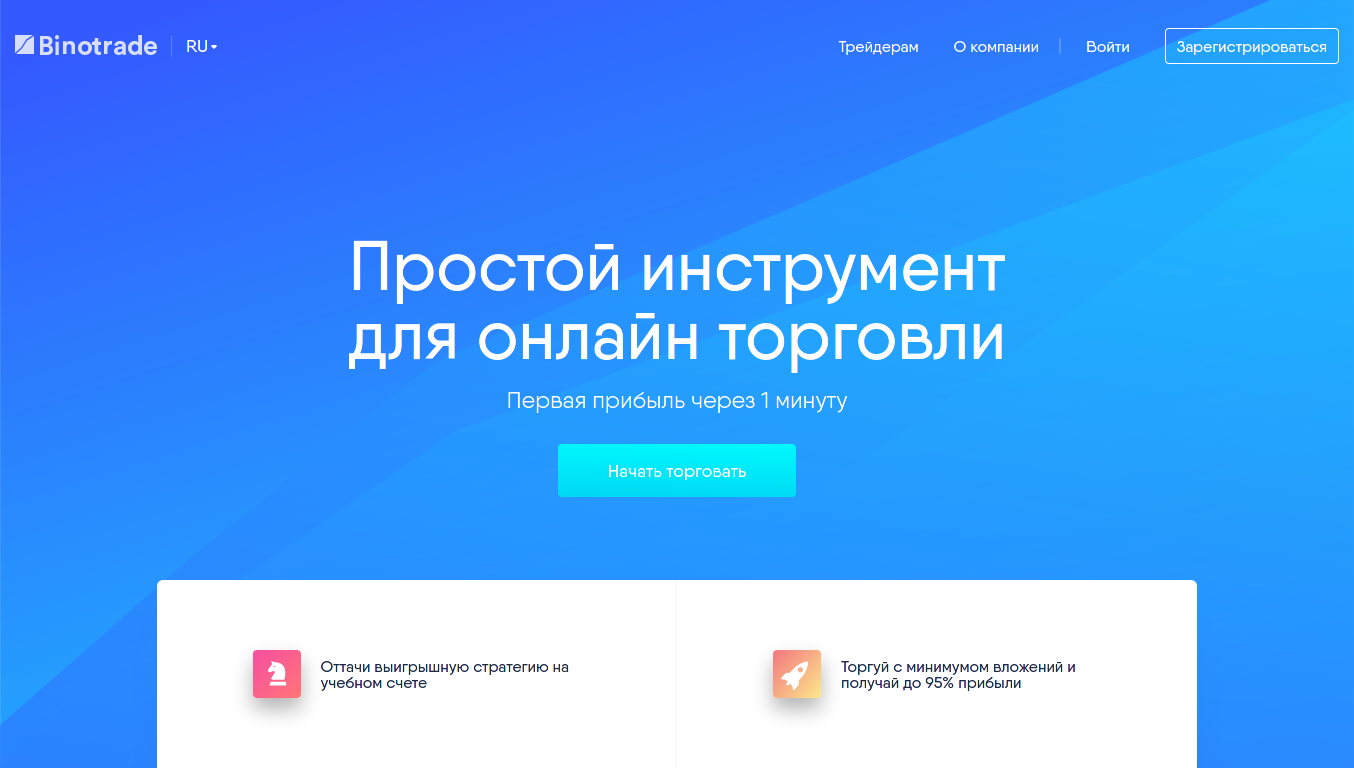
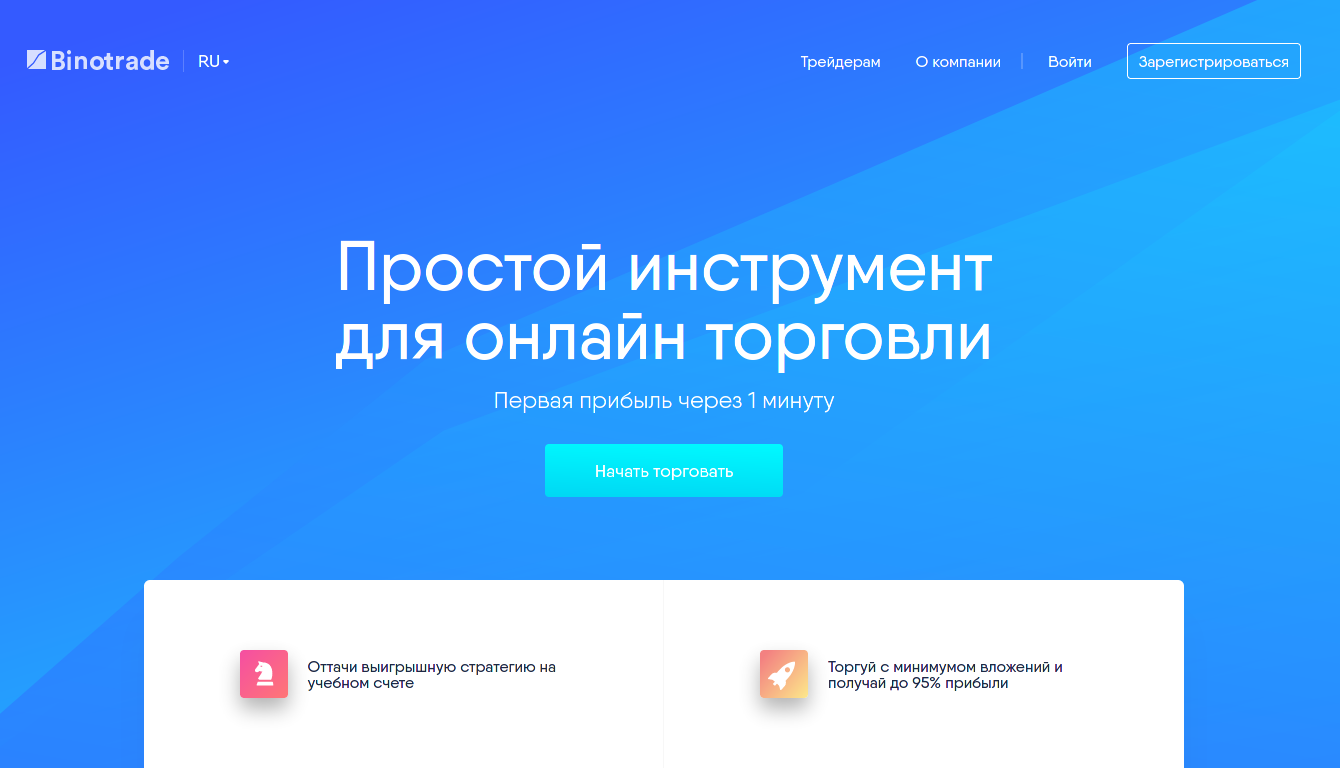
New image of the safari browser window + update project images

diff --git a/src/scss/blocks/projects.scss b/src/scss/blocks/projects.scss
@@ -57,7 +57,7 @@
 	&__item {
 		position: relative;
 		width: 100%;
-		padding-bottom: 55%;
+		padding-bottom: 54%;
 		margin: 0px 0px 35px 0px;
 
 		transform:
@@ -85,11 +85,11 @@
 			content: " ";
 			display: block;
 			position: absolute;
-			bottom: 5%;
-			left: -0.9%;
-			width: 101.7%;
-			height: 100%;
-			background-image: url(../img/projects/safari.png);
+			bottom: 0;
+			left: -0.6%;
+			width: 101%;
+			height: 104.7%;
+			background-image: url(../img/projects/safari.svg);
 			background-size: cover;
 			transform: translateZ(50px);
 
